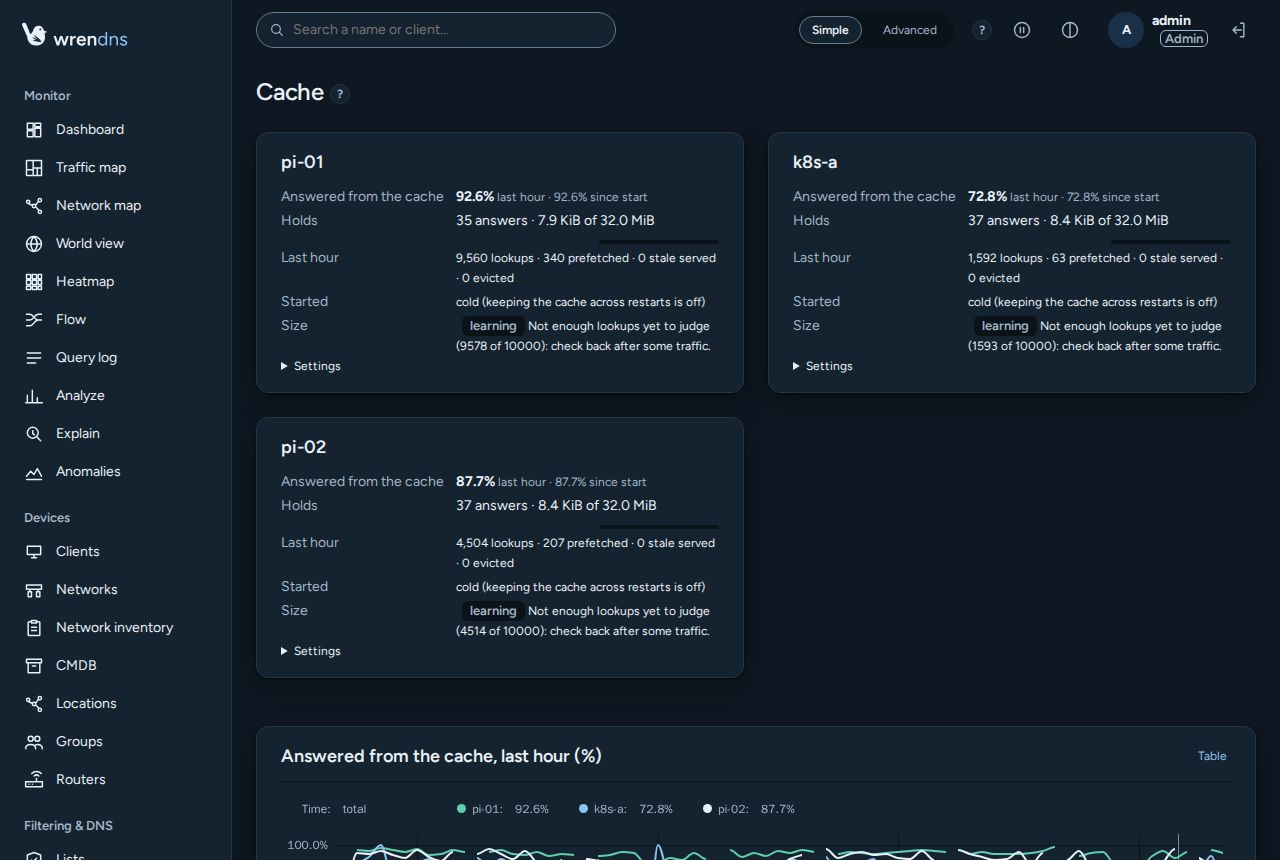
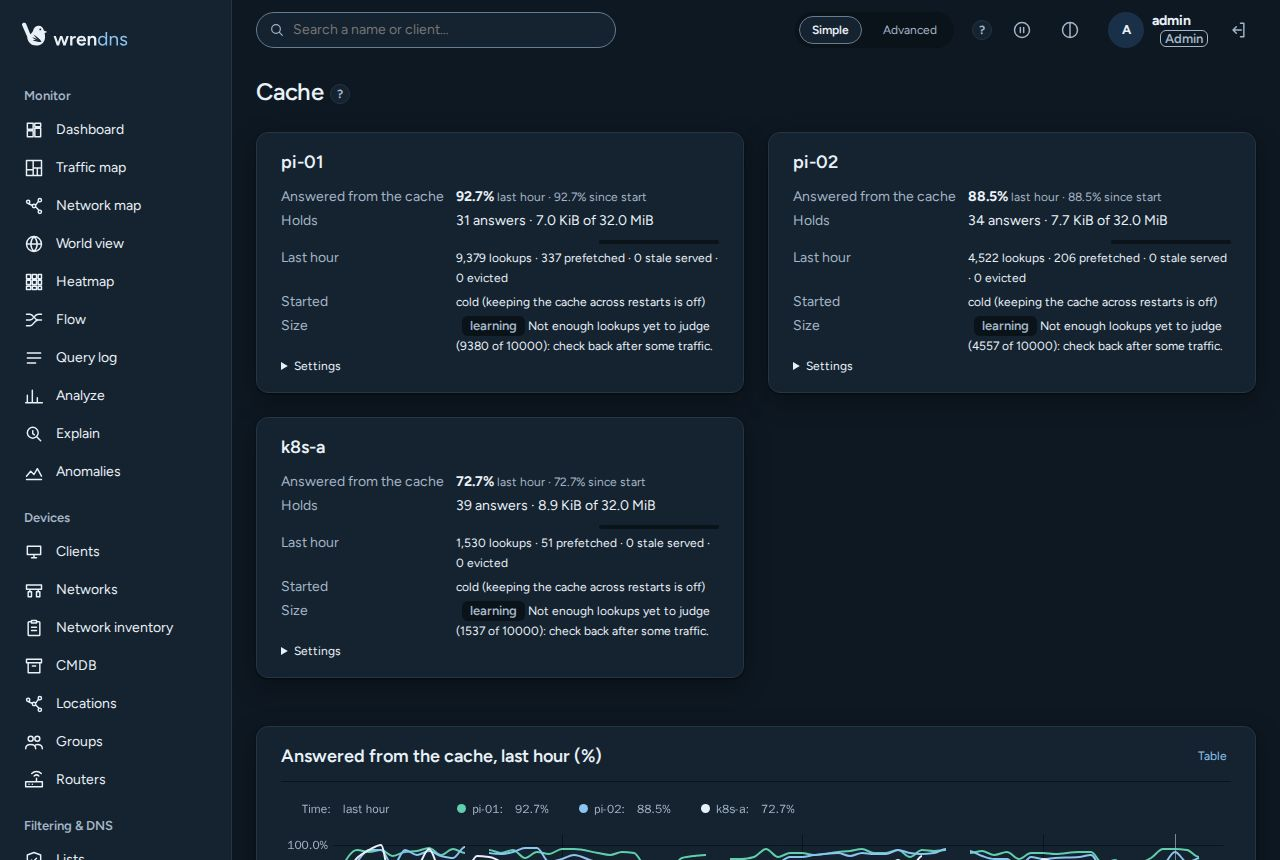
fix(ui): budget chart legend shows the budget left now, the time column names what the figures cover, expiring sort and 404 test tightened [DNS-007, DNS-001, OBS-027]

diff --git a/ui/tests/e2e/1-ui.spec.ts b/ui/tests/e2e/1-ui.spec.ts
@@ -1,7 +1,7 @@
 // REQ: API-003, API-005 — the UI end to end against a real server: first-run setup, the
 // dashboard, the query log and "Why?", explain, tokens, users and roles, sign-out/in, and a
 // phone-width layout, and the masked-client-IP banner. Any CSP violation or page error fails the suite.
-import { expect, test, type Page, type Request, type Route } from '@playwright/test';
+import { expect, test, type Page, type Request, type Response, type Route } from '@playwright/test';
 import { createHmac } from 'node:crypto';
 import { readFileSync } from 'node:fs';
 import { zstdDecompressSync } from 'node:zlib';
@@ -563,10 +563,16 @@ test('dns_007 cache page: percent legend from counts, no negative time left in t
       },
     }),
   );
+  const notFound: string[] = [];
+  const on404 = (r: Response) => {
+    if (r.status() === 404) notFound.push(new URL(r.url()).pathname);
+  };
+  page.on('response', on404);
   await page.goto('/#/cache');
   await page.reload();
   // 6 points x 100 lookups at 50% = 300 hits of 600; node-b 80% of 300 each = 1440 of 1800.
   const legend = page.locator('section.chart', { hasText: 'Answered from the cache' }).locator('.u-legend .u-value');
+  await expect(legend.nth(0)).toHaveText('last hour');
   await expect(legend.nth(1)).toHaveText('50.0%');
   await expect(legend.nth(2)).toHaveText('80.0%');
   const top = page.getByTestId('cache-top');
@@ -576,7 +582,17 @@ test('dns_007 cache page: percent legend from counts, no negative time left in t
   await expect(rows.filter({ hasText: 'mix.example.test' })).toContainText('17s left (stale on 1)');
   await expect(rows.filter({ hasText: 'gone.example.test' })).toContainText('stale on 2 nodes');
   await expect(rows.filter({ hasText: 'live.example.test' })).toContainText('12s to 30s left');
+  // A name stale on any node sorts first when sorting by expiring soonest (stale counts as expired).
+  await page.getByLabel('Sort by').selectOption('expiring');
+  await expect(rows.last()).toContainText('live.example.test');
+  await expect(rows.first()).not.toContainText('live.example.test');
   // The invented nodes have no settings on the server: the page's two 404s are expected.
+  // Only those two are removed: the 404 responses seen are exactly the two settings requests, so
+  // any other 404 the page starts making fails the test.
+  page.off('response', on404);
+  expect([...new Set(notFound)].sort()).toEqual(['/api/v1/node-settings/node-a', '/api/v1/node-settings/node-b']);
+  // The browser logs each refused fetch as a console error, a moment after the response.
+  await expect.poll(() => problems.filter((p) => /status of 404/.test(p)).length).toBe(notFound.length);
   for (let i = problems.length - 1; i >= 0; i--) if (/status of 404/.test(problems[i])) problems.splice(i, 1);
   await page.unroute('**/api/v1/cache/stats');
   await page.unroute('**/api/v1/cache/entries*');
@@ -5808,8 +5824,8 @@ test('obs_027 budget attribution', async () => {
         objective: 'availability', from: '2026-09-16T00:00:00.000Z', to: '2026-10-16T00:00:00.000Z', step: 'day',
         budget: { targetPct: 99.9, answered: 10000, allowedBad: 10, bad: 13, remainingPct: -30 },
         timeline: [
-          { start: '2026-10-14T00:00:00.000Z', startUnixSeconds: 1792022400, node: 'pi', answered: 5000, bad: 10, budgetSpentPct: 100 },
-          { start: '2026-10-15T00:00:00.000Z', startUnixSeconds: 1792108800, node: 'pi', answered: 5000, bad: 3, budgetSpentPct: 30 },
+          { start: '2026-10-14T00:00:00.000Z', startUnixSeconds: 1792022400, node: 'pi', answered: 5000, bad: 4, budgetSpentPct: 40 },
+          { start: '2026-10-15T00:00:00.000Z', startUnixSeconds: 1792108800, node: 'pi', answered: 5000, bad: 9, budgetSpentPct: 90 },
         ],
         byClient: [{ ...row('192.0.2.185', 10, false), name: 'laptop' }, row('192.0.2.20', 3, false)],
         byName: [row('247.73.85.170.in-addr.arpa', 10, false)],
@@ -5824,6 +5840,10 @@ test('obs_027 budget attribution', async () => {
   await page.reload();
   await expect(tab.getByTestId('budget-summary')).toContainText('overspent');
   await expect(tab.getByTestId('partial-nodes')).toContainText('old-pod');
+  // The budget chart's legend off the plot: the budget left now (-30%), not the percentages added up (60 + -30).
+  const budgetLegend = page.locator('section.chart', { hasText: 'Budget left' }).locator('.u-legend .u-value');
+  await expect(budgetLegend.nth(0)).toHaveText('now');
+  await expect(budgetLegend.nth(1)).toHaveText('-30%');
   const clients = tab.getByTestId('by-client');
   await expect(clients).toContainText('laptop (192.0.2.185)');
   await expect(tab.getByTestId('by-upstream')).toContainText('none');

diff --git a/ui/src/lib/components/BudgetAttribution.svelte b/ui/src/lib/components/BudgetAttribution.svelte
@@ -44,7 +44,8 @@
         for (const p of points) if (p.startUnixSeconds === t && (n === undefined || p.node === n)) spent += p.bad;
         return Math.round((100 - (spent * 100) / Math.max(1, allowed)) * 10) / 10;
       });
-      return { label: n ?? 'every node', color: colors[i % colors.length], values };
+      // The legend's figure off the plot: the budget left now (a percentage is not summed over time).
+      return { label: n ?? 'every node', color: colors[i % colors.length], values, overall: values.length ? values[values.length - 1] : null };
     });
     return { times, series };
   }
@@ -99,7 +100,7 @@
       <p class="empty" data-testid="budget-empty">Nothing spent this window.</p>
     {:else}
       {#if all}
-        <Chart title="Budget left (%)" times={all.times} series={all.series} height={200} markers={changes.markers} format={(n) => `${n}%`} />
+        <Chart title="Budget left (%)" times={all.times} series={all.series} height={200} markers={changes.markers} format={(n) => `${n}%`} overallLabel="now" />
       {/if}
       {#if hidden('timeline_only')}
         <p class="muted small">The privacy level keeps only the timeline: no breakdown by client, name, or anything else.</p>
@@ -130,7 +131,7 @@
         <h3>By node</h3>
         <div class="nodes">
           {#each perNode as n (n.node)}
-            <Chart title={n.node} times={n.times} series={n.series} height={120} format={(v) => `${v}%`} />
+            <Chart title={n.node} times={n.times} series={n.series} height={120} format={(v) => `${v}%`} overallLabel="now" />
           {/each}
         </div>
       {/if}

diff --git a/ui/src/lib/components/Chart.svelte b/ui/src/lib/components/Chart.svelte
@@ -27,6 +27,7 @@
     seconds = false,
     format = num,
     markers = [],
+    overallLabel = 'total',
   }: {
     title: string;
     /** Unix seconds. */
@@ -40,6 +41,9 @@
     format?: (n: number) => string;
     /** REQ: OBS-033 — change markers: a thin line each, hover for what and who. */
     markers?: Marker[];
+    /** The time column's text when the cursor is off the plot (the legend then shows each series'
+     *  `overall`, or its sum): 'total' for counts, what the figures cover when they are not sums. */
+    overallLabel?: string;
   } = $props();
 
   // REQ: OBS-033 — markers sit over the plot as small buttons (keyboard and screen readers
@@ -193,7 +197,7 @@
         },
       ],
       series: [
-        { value: (_u, v) => (v == null ? 'total' : clock(v, true)) },
+        { value: (_u, v) => (v == null ? overallLabel : clock(v, true)) },
         ...order.map((i) => {
           const c = color(series[i].color);
           return {
@@ -205,7 +209,7 @@
             paths: bars ? roundBars : stacked ? undefined : spline,
             points: { show: !bars && times.length < 3 },
             value: (_u: uPlot, _v: number | null, _si: number, idx: number | null) =>
-              // Not hovering: the total over the shown range.
+              // Not hovering: the series' `overall` figure, else the total over the shown range.
               idx == null ? overallText(series[i]) : format(series[i].values[idx] ?? 0),
           } satisfies uPlot.Series;
         }),

diff --git a/ui/src/pages/Cache.svelte b/ui/src/pages/Cache.svelte
@@ -156,6 +156,8 @@
     }
     const rows = [...by.values()];
     if (sort === 'bytes') rows.sort((a, b) => b.bytes - a.bytes);
+    // A name stale on any node sorts first, on purpose: a stale copy counts as already expired, so
+    // '41s to 59s left (stale on 1)' comes before a name at '0s left'.
     else if (sort === 'expiring') rows.sort((a, b) => (a.stale ? -1 : a.ttlMin) - (b.stale ? -1 : b.ttlMin));
     else rows.sort((a, b) => b.hits - a.hits || b.nodes.length - a.nodes.length);
     return rows.slice(0, LIMIT);
@@ -244,7 +246,7 @@
   </section>
 
   {#if charts.times.length > 1}
-    <Chart title="Answered from the cache, last hour (%)" times={charts.times} series={charts.hit} height={180} format={(n) => pct(n)} markers={changes.markers} />
+    <Chart title="Answered from the cache, last hour (%)" times={charts.times} series={charts.hit} height={180} overallLabel="last hour" format={(n) => pct(n)} markers={changes.markers} />
     <Chart title="Lookups per 15 s" times={charts.times} series={charts.lookups} height={160} markers={changes.markers} />
   {:else if stats.length}
     <p class="muted small">The charts fill in over the first minutes (a sample every 15 s).</p>
